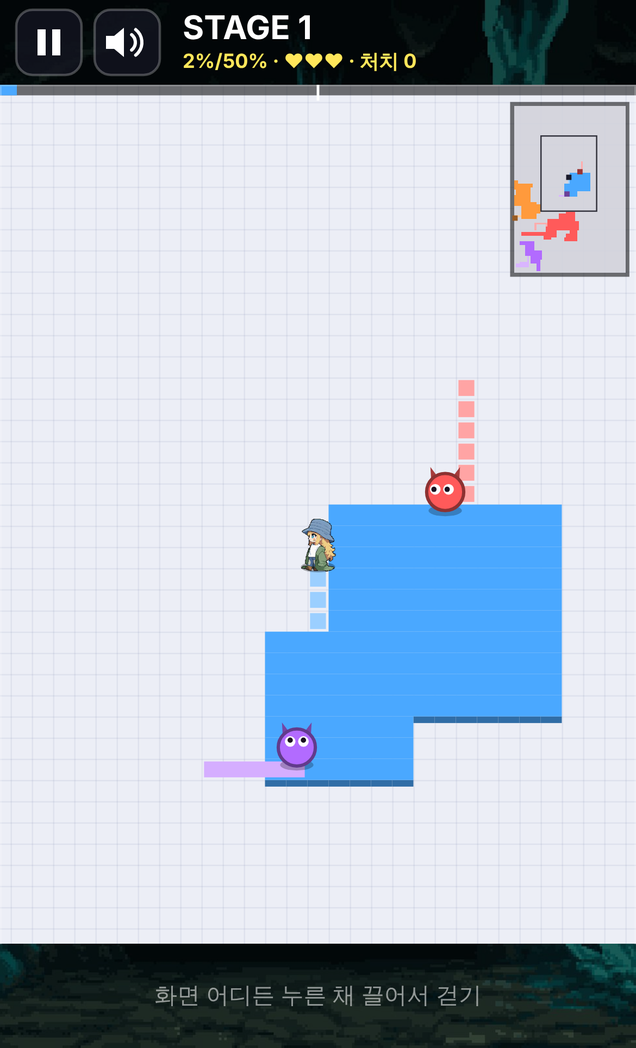
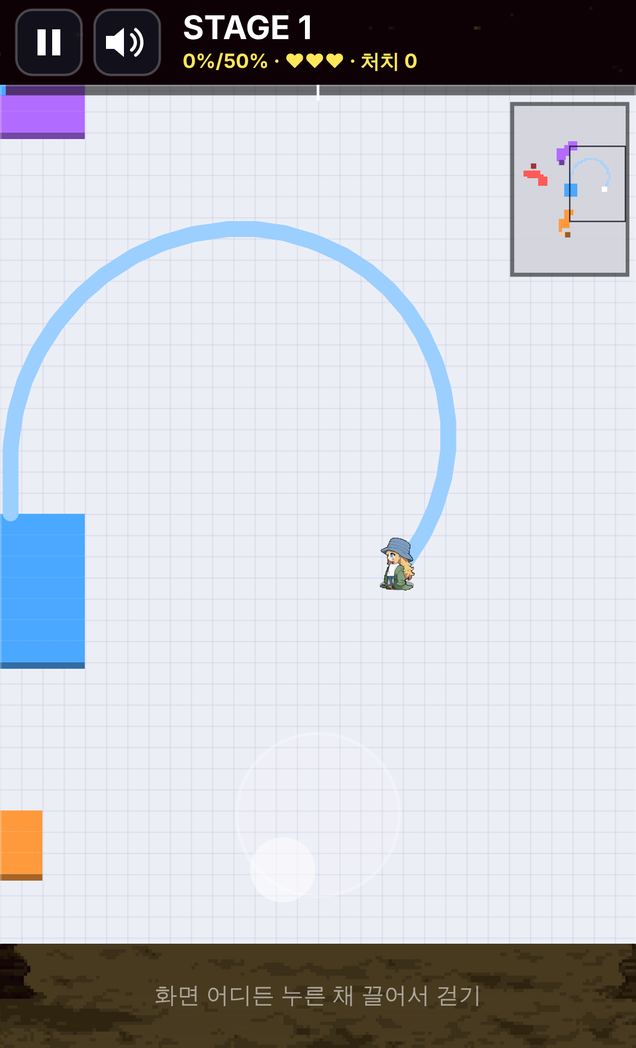
모바일 꼬마 땅따먹기: 칸 단위 대신 자유로운 방향으로 움직이기, 부드러운 선
Claude-Session: https://claude.ai/code/session_01H5NzThzx7Gj715H5iL8oZa

diff --git a/mobile/src/game/claim.ts b/mobile/src/game/claim.ts
@@ -6,7 +6,8 @@
 // - 남의 선을 밟으면 그 선의 주인이 죽는다. 자기 선을 밟아도 죽는다
 //   악마가 꼬마 선을 밟으면 꼬마 목숨 -1 (선은 사라지고 마지막으로 나간 자기 땅으로 돌아감)
 //   꼬마가 악마 선을 밟으면 그 악마는 땅과 함께 사라지고, 잠시 뒤 다른 곳에서 새 악마가 나온다
-// - 화면 어디든 누른 채 상하좌우로 끌면 그쪽으로 걷고, 손을 떼면 멈춘다
+// - 화면 어디든 누른 채 끌면 그 방향으로 자유롭게 걷고(끈 거리만큼 빠르게), 손을 떼면 멈춘다
+//   땅은 칸으로 나뉘어 있고, 꼬마가 지나간 칸에 선이 남는다
 // - 맵의 절반을 차지하면 다음 스테이지. 스테이지마다 악마가 하나씩 늘고 조금 빨라진다
 // - 목숨 3개. 땅을 모두 빼앗겨도 끝. 기록은 도달한 스테이지
 import { World } from './objects';
@@ -22,7 +23,8 @@ export interface ClaimHost {
 export const CC = 16;                  // 칸 크기
 export const MAP_COLS = 60;
 export const MAP_ROWS = 90;
-const KID_SPEED = 10;                  // 초당 칸 수
+const KID_SPEED = 10;                  // 초당 칸 수 (꼬마는 이 빠르기로 자유롭게 움직임)
+const TURN_RATE = 9;                   // 선을 긋는 중 1초에 돌 수 있는 각도 (라디안). 급하게 꺾어 자기 선을 밟지 않게
 const START_LIVES = 3;
 export const GOAL = 0.5;
 const CLEAR_PAUSE = 1.8;
@@ -37,6 +39,7 @@ export const PLAYER_COLORS = ['#4aa8ff', '#ff5a5a', '#b26bff', '#ff9a3c', '#ff6f
 export interface Player {
   id: number;
   c: number; r: number;              // 머리 칸
+  x: number; y: number;              // 그리는 위치 (꼬마는 실제 위치, 악마는 칸을 부드럽게 따라감)
   dir: [number, number];
   alive: boolean;
   respawn: number;
@@ -65,6 +68,7 @@ export class Claim {
   version = 0;
   players: Player[] = [];
   holdDir: [number, number] = [0, 0];
+  kidPath: { x: number; y: number }[] = [];   // 꼬마가 선을 긋는 동안 지나간 실제 자리 (부드러운 선 그리기용)
   clearTimer = 0;
   hurtTimer = 0;
   time = 0;
@@ -82,8 +86,8 @@ export class Claim {
   get mapH(): number { return this.rows * CC; }
   get moving(): boolean { return this.kid.dir[0] !== 0 || this.kid.dir[1] !== 0; }
   get drawing(): boolean { return this.kid.trail.length > 0; }
-  headX(p: Player): number { return (p.c + 0.5) * CC; }
-  headY(p: Player): number { return (p.r + 0.5) * CC; }
+  headX(p: Player): number { return p.x; }
+  headY(p: Player): number { return p.y; }
   get kidX(): number { return this.headX(this.kid); }
   get kidY(): number { return this.headY(this.kid); }
   idx(c: number, r: number): number { return r * this.cols + c; }
@@ -112,7 +116,7 @@ export class Claim {
     }
     const devilSpeed = Math.min(10, 7 + this.stage * 0.5);
     return {
-      id, c, r, dir: [0, 0], alive: true, respawn: 0, trail: [], leaveC: c, leaveR: r, step: 0,
+      id, c, r, x: (c + 0.5) * CC, y: (r + 0.5) * CC, dir: [0, 0], alive: true, respawn: 0, trail: [], leaveC: c, leaveR: r, step: 0,
       speed: id === KID ? KID_SPEED : devilSpeed, plan: [], mode: 'home', wait: rand(0.2, 1.2),
     };
   }
@@ -138,7 +142,9 @@ export class Claim {
   }
 
   // ---------- 조작 ----------
+  // 가고 싶은 방향과 세기 (길이 0~1). [0,0] 이면 멈춤
   hold(dx: number, dy: number): void { this.holdDir = [dx, dy]; }
+  private heading = -Math.PI / 2;
   joyFrom: { x: number; y: number } | null = null;
   joyTo = { x: 0, y: 0 };
   joyBegin(x: number, y: number): void { this.joyFrom = { x, y }; this.joyTo = { x, y }; this.hold(0, 0); }
@@ -148,9 +154,9 @@ export class Claim {
     let dx = x - this.joyFrom.x, dy = y - this.joyFrom.y;
     const len = Math.hypot(dx, dy), max = 50;
     if (len > max) { this.joyFrom = { x: x - dx / len * max, y: y - dy / len * max }; dx = x - this.joyFrom.x; dy = y - this.joyFrom.y; }
-    if (len < 12) this.hold(0, 0);
-    else if (Math.abs(dx) > Math.abs(dy)) this.hold(Math.sign(dx), 0);
-    else this.hold(0, Math.sign(dy));
+    const l = Math.hypot(dx, dy);
+    if (l < 10) this.hold(0, 0);
+    else { const m = Math.min(1, 0.55 + (l - 10) / 60); this.hold(dx / l * m, dy / l * m); }   // 조금만 끌어도 꽤 빠르게
   }
   joyEnd(): void { this.joyFrom = null; this.hold(0, 0); }
 
@@ -166,28 +172,28 @@ export class Claim {
     }
     if (this.hurtTimer > 0) this.hurtTimer -= dt;
 
-    // 꼬마: 선을 긋는 중에 정반대로는 못 감
-    const kid = this.kid;
-    if (this.hurtTimer <= 0) {
-      const [hx, hy] = this.holdDir;
-      const reverse = kid.trail.length > 0 && hx === -kid.dir[0] && hy === -kid.dir[1] && (hx !== 0 || hy !== 0);
-      if (!reverse) kid.dir = [hx, hy];
-    } else kid.dir = [0, 0];
+    this.moveKid(dt);
 
     for (const p of this.players) {
+      if (p.id === KID) continue;
       if (!p.alive) {
         p.respawn -= dt;
         if (p.respawn <= 0) this.respawnDevil(p);
         continue;
       }
-      if (p.id !== KID) this.think(p, dt);
-      if (p.dir[0] === 0 && p.dir[1] === 0) { p.step = Math.min(p.step, 0.6); continue; }
-      p.step += dt * p.speed;
-      while (p.step >= 1 && p.alive && this.clearTimer <= 0) {
-        p.step -= 1;
-        if (p.id !== KID) this.think(p, 0);
-        this.stepPlayer(p);
-      }
+      this.think(p, dt);
+      if (p.dir[0] !== 0 || p.dir[1] !== 0) {
+        p.step += dt * p.speed;
+        while (p.step >= 1 && p.alive && this.clearTimer <= 0) {
+          p.step -= 1;
+          this.think(p, 0);
+          this.stepPlayer(p);
+        }
+      } else p.step = Math.min(p.step, 0.6);
+      // 그리는 위치는 칸 가운데를 부드럽게 따라감
+      const k = Math.min(1, dt * p.speed * 1.6);
+      p.x += ((p.c + 0.5) * CC - p.x) * k;
+      p.y += ((p.r + 0.5) * CC - p.y) * k;
     }
     this.follow(dt);
   }
@@ -200,10 +206,46 @@ export class Claim {
     this.camY += (ty - this.camY) * k;
   }
 
+  // 꼬마: 바라는 방향으로 돌면서(선을 긋는 중엔 천천히) 자유롭게 이동. 칸이 바뀔 때마다 칸 규칙 적용
+  private moveKid(dt: number): void {
+    const kid = this.kid;
+    const [hx, hy] = this.holdDir;
+    const m = Math.hypot(hx, hy);
+    if (this.hurtTimer > 0 || m === 0) { kid.dir = [0, 0]; return; }
+    const want = Math.atan2(hy, hx);
+    if (kid.trail.length > 0) {
+      let d = want - this.heading;
+      d = Math.atan2(Math.sin(d), Math.cos(d));
+      const maxTurn = TURN_RATE * dt;
+      this.heading += Math.max(-maxTurn, Math.min(maxTurn, d));
+    } else this.heading = want;
+    const ux = Math.cos(this.heading), uy = Math.sin(this.heading);
+    kid.dir = [Math.abs(ux) > 0.2 ? Math.sign(ux) : 0, Math.abs(uy) > 0.2 ? Math.sign(uy) : 0];
+    let dist = KID_SPEED * CC * m * dt;
+    while (dist > 0 && kid.alive && this.hurtTimer <= 0 && this.clearTimer <= 0) {
+      const s = Math.min(3, dist);
+      dist -= s;
+      kid.x = Math.max(1, Math.min(this.mapW - 1, kid.x + ux * s));
+      kid.y = Math.max(1, Math.min(this.mapH - 1, kid.y + uy * s));
+      const nc = Math.floor(kid.x / CC), nr = Math.floor(kid.y / CC);
+      if (nc !== kid.c || nr !== kid.r) this.enterCell(kid, nc, nr);
+      if (kid.trail.length > 0) {
+        const last = this.kidPath[this.kidPath.length - 1];
+        if (!last || Math.hypot(last.x - kid.x, last.y - kid.y) > 4) this.kidPath.push({ x: kid.x, y: kid.y });
+      } else this.kidPath = [];
+    }
+  }
+
   private stepPlayer(p: Player): void {
     const nc = p.c + p.dir[0], nr = p.r + p.dir[1];
-    if (!this.inside(nc, nr)) { if (p.id !== KID) p.plan = []; return; }
+    if (!this.inside(nc, nr)) { p.plan = []; return; }
+    this.enterCell(p, nc, nr);
+  }
+
+  private enterCell(p: Player, nc: number, nr: number): void {
     const i = this.idx(nc, nr);
+    // 꼬마가 막 지나온 선 칸에 다시 들어가는 건 봐줌 (칸 모서리에서 흔들릴 때)
+    if (p.id === KID && this.trail[i] === KID && p.trail.slice(-3).includes(i)) { p.c = nc; p.r = nr; return; }
     const t = this.trail[i];
     if (t >= 0) {   // 선을 밟음: 그 선의 주인이 죽음 (자기 선이면 자기)
       this.killPlayer(t, p.id);
@@ -268,6 +310,7 @@ export class Claim {
   }
 
   private clearTrail(p: Player): void {
+    if (p.id === KID) this.kidPath = [];
     for (const i of p.trail) if (this.trail[i] === p.id) this.trail[i] = -1;
     p.trail = [];
     this.version++;
@@ -283,11 +326,12 @@ export class Claim {
       this.clearTrail(p);
       p.c = p.leaveC; p.r = p.leaveR;
       p.dir = [0, 0];
+      p.x = (p.c + 0.5) * CC; p.y = (p.r + 0.5) * CC;
       this.hurtTimer = HURT_PAUSE;
       // 돌아간 칸이 이미 남의 땅이면 남은 내 땅 아무 곳으로
       if (this.owner[this.idx(p.c, p.r)] !== KID) {
         const mine = this.owner.findIndex((o) => o === KID);
-        if (mine >= 0) { p.c = mine % this.cols; p.r = Math.floor(mine / this.cols); }
+        if (mine >= 0) { p.c = mine % this.cols; p.r = Math.floor(mine / this.cols); p.x = (p.c + 0.5) * CC; p.y = (p.r + 0.5) * CC; }
       }
       if (this.lives <= 0 || (this.counts[KID] ?? 0) === 0) { this.lives = 0; this.host.gameOver(); }
       return;

diff --git a/mobile/src/main.ts b/mobile/src/main.ts
@@ -171,7 +171,15 @@ function movePaddle(x: number): void {
 // 엘프 모드(스와이프): 누른 채 당겨서 조준
 function swipeActive(): boolean { return game.state === 'playing' && overlay === 'none' && game.swipe !== null; }
 // 엘프 모드: 끌어서 이동, 레벨업 카드 고르기
-// 꼬마 땅따먹기: 밀어서 방향 바꾸기
+// 꼬마 땅따먹기: 방향키는 여러 개를 같이 누르면 대각선
+const claimKeys = new Set<string>();
+function claimKeyDir(): void {
+  const x = (claimKeys.has('ArrowRight') ? 1 : 0) - (claimKeys.has('ArrowLeft') ? 1 : 0);
+  const y = (claimKeys.has('ArrowDown') ? 1 : 0) - (claimKeys.has('ArrowUp') ? 1 : 0);
+  const l = Math.hypot(x, y) || 1;
+  game.claim?.hold(x / l, y / l);
+}
+// 꼬마 땅따먹기: 끌어서 움직이기
 function claimActive(): boolean { return game.state === 'playing' && overlay === 'none' && game.claim !== null; }
 // 꼬마 모드(괴물)도 같은 조작
 function joyMode() { return game.archer ?? game.horde; }
@@ -301,10 +309,7 @@ window.addEventListener('keydown', (e) => {
     else if (e.key >= '1' && e.key <= '3') game.selectCharacter(Number(e.key) - 1);
   } else if (overlay === 'pause' && (e.key === ' ' || e.key === 'Enter')) overlay = 'none';
   else if (game.claim && overlay === 'none') {   // 땅따먹기: 방향키를 누르고 있는 동안 걸음
-    if (e.key === 'ArrowLeft') game.claim.hold(-1, 0);
-    else if (e.key === 'ArrowRight') game.claim.hold(1, 0);
-    else if (e.key === 'ArrowUp') game.claim.hold(0, -1);
-    else if (e.key === 'ArrowDown') game.claim.hold(0, 1);
+    if (['ArrowLeft', 'ArrowRight', 'ArrowUp', 'ArrowDown'].includes(e.key)) { claimKeys.add(e.key); claimKeyDir(); }
   }
   else if (game.horde && overlay === 'none') {   // 꼬마: 방향키로 이동
     const k = game.horde.keyDir;
@@ -320,7 +325,7 @@ window.addEventListener('keydown', (e) => {
   }
 });
 window.addEventListener('keyup', (e) => {
-  if (game.claim && ['ArrowLeft', 'ArrowRight', 'ArrowUp', 'ArrowDown'].includes(e.key)) game.claim.hold(0, 0);
+  if (game.claim && claimKeys.delete(e.key)) claimKeyDir();
   if (game.horde) {
     const k = game.horde.keyDir;
     if ((e.key === 'ArrowLeft' && k.x < 0) || (e.key === 'ArrowRight' && k.x > 0)) k.x = 0;

diff --git a/mobile/src/render.ts b/mobile/src/render.ts
@@ -271,7 +271,21 @@ function drawClaim(ctx: Ctx, game: Game, v: View): void {
     }
   }
   drawRuns(c.owner, (o) => PLAYER_COLORS[o % PLAYER_COLORS.length], 0);
-  drawRuns(c.trail, (o) => shade(PLAYER_COLORS[o % PLAYER_COLORS.length], 0.45), 2);
+  drawRuns(c.trail, (o) => (o === KID ? 'rgba(0,0,0,0)' : shade(PLAYER_COLORS[o % PLAYER_COLORS.length], 0.45)), 2);
+  // 꼬마 선: 지나간 자리를 따라 부드러운 굵은 선
+  if (c.kidPath.length > 0) {
+    ctx.save();
+    ctx.lineCap = 'round';
+    ctx.lineJoin = 'round';
+    ctx.strokeStyle = shade(PLAYER_COLORS[KID], 0.45);
+    ctx.lineWidth = CC * 0.75;
+    ctx.beginPath();
+    ctx.moveTo(c.kidPath[0].x, c.kidPath[0].y);
+    for (const q of c.kidPath) ctx.lineTo(q.x, q.y);
+    ctx.lineTo(c.kidX, c.kidY);
+    ctx.stroke();
+    ctx.restore();
+  }
 
   // 방금 차지한 곳 반짝
   if (c.flash.t > 0) {

diff --git a/mobile/src/game/objects.ts b/mobile/src/game/objects.ts
@@ -40,7 +40,7 @@ export const Characters = {
     {
       name: 'KID', fps: 15, mode: 'claim', speedMul: 1, paddleW: 80,
       ability: '땅따먹기 · 몇 스테이지까지 갈까',
-      hints: ['화면 어디든 누른 채 끌면 걷고, 떼면 멈춰요', '선으로 둘러싸 땅 차지! 악마 선을 밟으면 처치, 내 선을 밟히면 목숨 -1'],
+      hints: ['화면 어디든 누른 채 끌면 그쪽으로 자유롭게, 떼면 멈춰요', '선으로 둘러싸 땅 차지! 악마 선을 밟으면 처치, 내 선을 밟히면 목숨 -1'],
     },
     {
       name: 'ELF', fps: 13, mode: 'swipe', speedMul: 1, paddleW: 80,

diff --git a/mobile/README.md b/mobile/README.md
@@ -76,7 +76,7 @@ python tools/build_web_assets.py .. public/assets
 |---|---|---|
 | 캐릭터 고르기 | 카드 누르기 | 카드 클릭, 방향키, 1 2 3 |
 | 시작 | 시작하기 | Space |
-| 걷기 (KID) | 화면 어디든 누른 채 끌기, 떼면 멈춤 | 방향키를 누르고 있기 |
+| 걷기 (KID) | 화면 어디든 누른 채 끌기 (자유로운 방향), 떼면 멈춤 | 방향키를 누르고 있기 (두 개 같이 누르면 대각선) |
 | 패들 이동 (SAINT) | 화면 아래쪽을 좌우로 밀기 | 마우스 |
 | 쏠 자리 옮기기 (ELF) | 풀밭 선 아래를 좌우로 밀기 | 풀밭 선 아래를 누른 채 끌기 |
 | 조준하고 쏘기 (ELF) | 풀밭 선 위를 누른 채 아래로 당기고 놓기 | 누른 채 당기고 놓기 |
@@ -90,7 +90,7 @@ python tools/build_web_assets.py .. public/assets
 - 남의 선을 밟으면 그 선의 주인이 당합니다. 자기 선을 밟아도 당합니다.
   - 꼬마가 악마 선을 밟으면 그 악마는 땅과 함께 사라지고, 3초 뒤 다른 곳에서 새 악마가 나옵니다.
   - 악마가 꼬마 선을 밟으면 꼬마 목숨이 하나 줄고, 선은 사라지고 마지막으로 나간 자기 땅으로 돌아갑니다. 악마는 꼬마 선이 가까이 있으면 끊으러 옵니다.
-- 화면 어디든 누른 채 상하좌우로 끌면 그쪽으로 걷고, 손을 떼면 멈춥니다. 선을 긋다가 정반대로는 돌 수 없습니다.
+- 화면 어디든 누른 채 끌면 그 방향으로 자유롭게 움직이고(조금 끌면 천천히, 많이 끌면 빠르게), 손을 떼면 멈춥니다. 선을 긋는 중에는 방향이 부드럽게 돌아가서 갑자기 되돌아 자기 선을 밟지 않습니다.
 - 맵의 절반을 차지하면 다음 스테이지. 스테이지마다 악마가 하나씩 늘고(1스테이지 3마리) 조금 빨라집니다.
 - 목숨은 3개, 땅을 모두 빼앗겨도 끝. 기록은 도달한 스테이지입니다.
 
